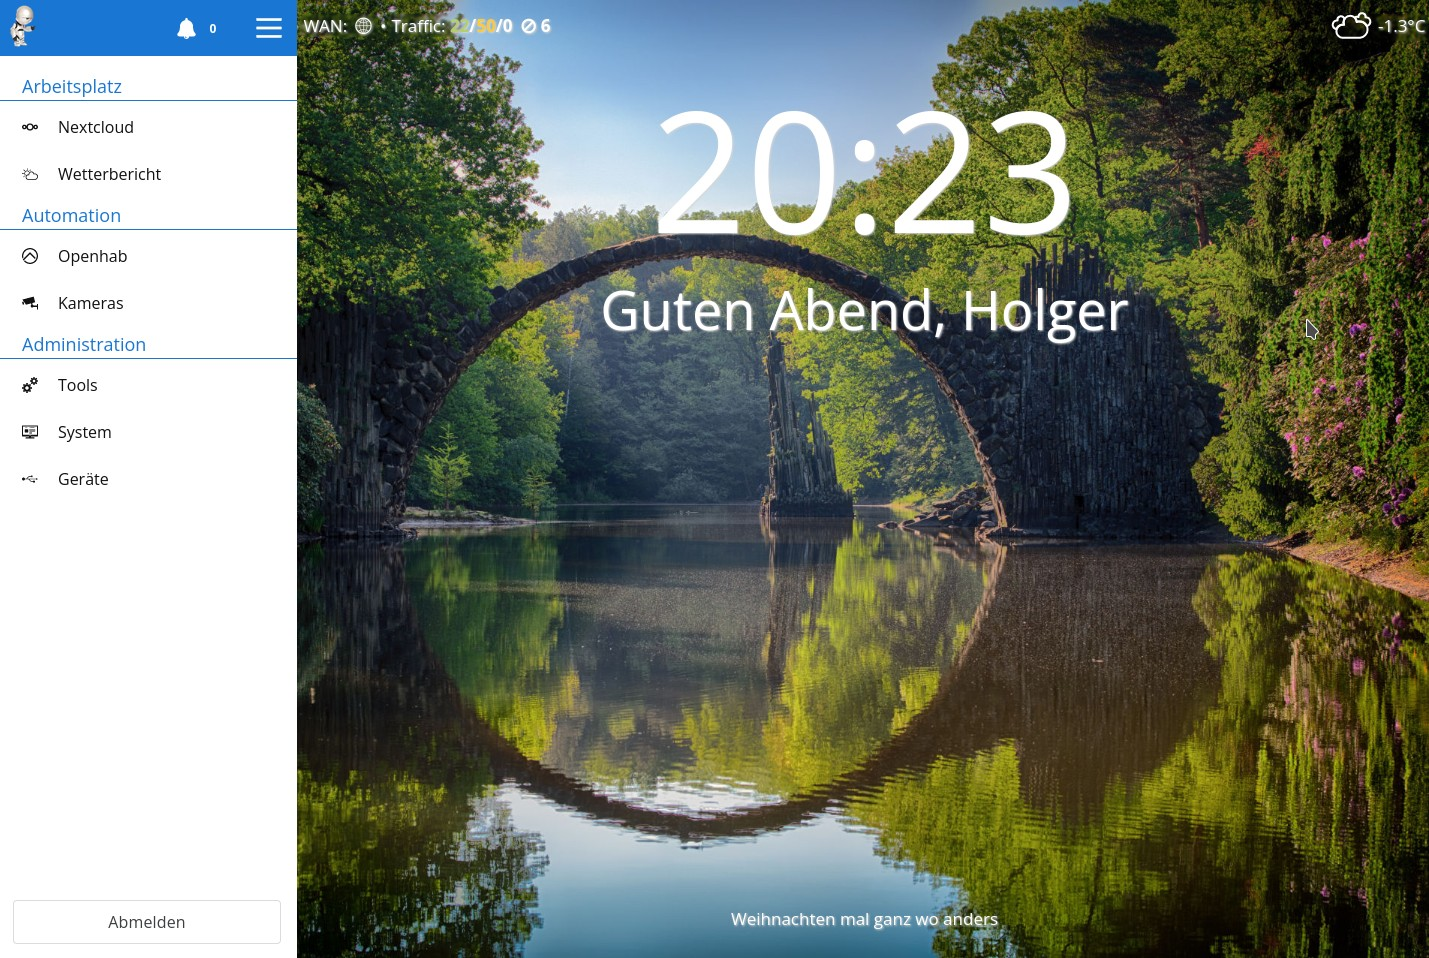
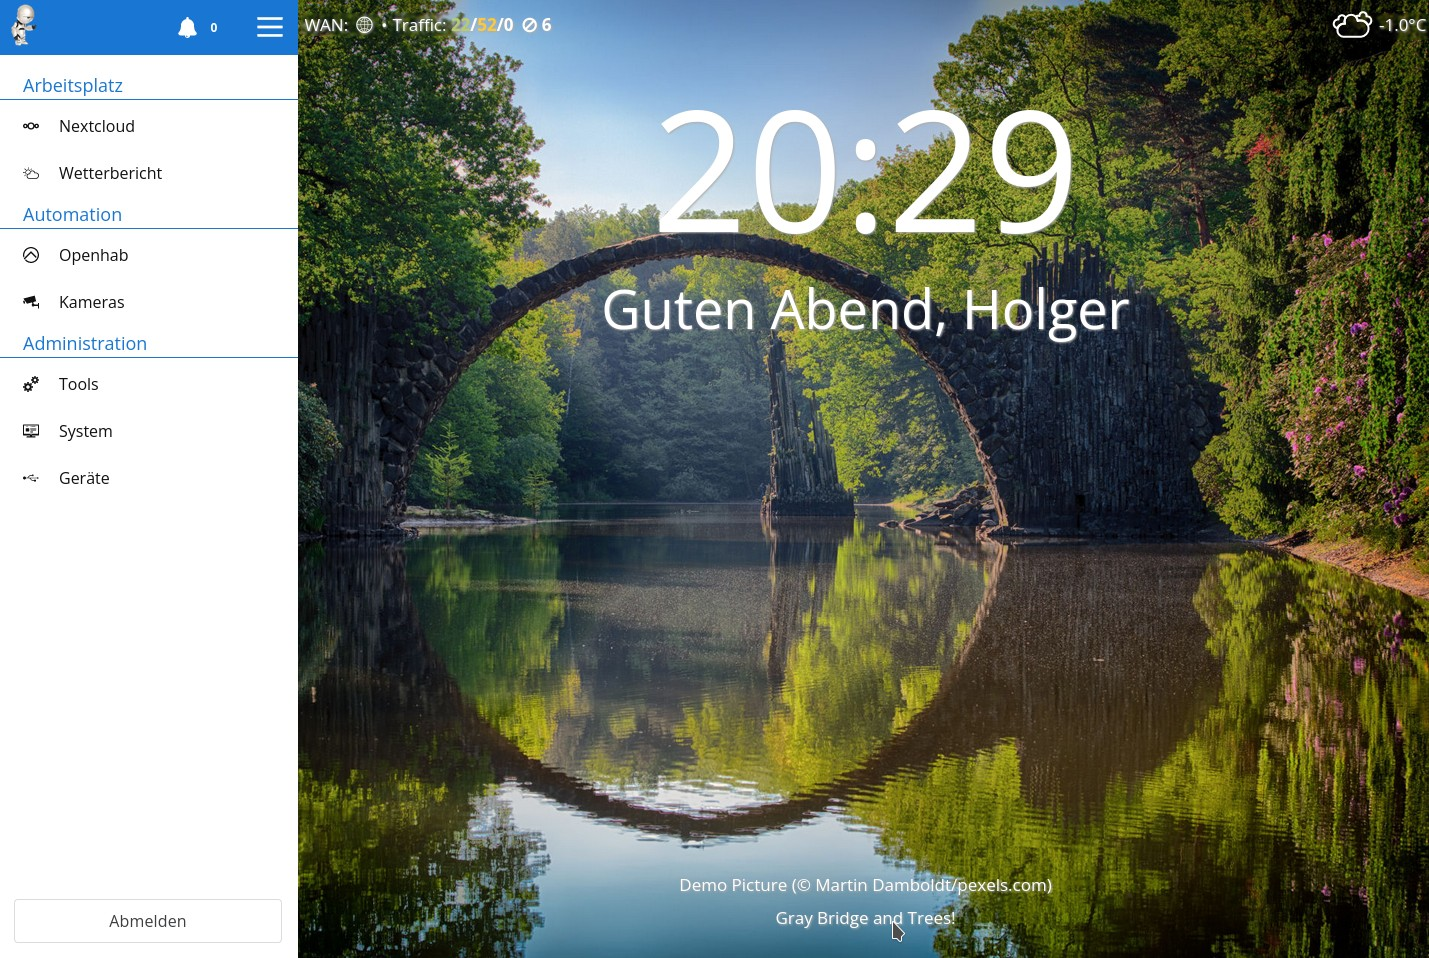
update used picture in readme

diff --git a/roles/apache_webui/templates/htdocs/index.php b/roles/apache_webui/templates/htdocs/index.php
@@ -216,9 +216,8 @@ require "./shared/libs/ressources.php";
         }
         
         mx.OnScriptReady.push( function(){
-            var imageUrl = "/img/potd/today" + ( mx.Core.isSmartphone() ? "Portrait" : "Landscape") + ".jpg";
-            if( mx.Page.isDemoMode() ) imageUrl = "/shared/demo_background.jpeg";
-            var titleUrl = "/img/potd/todayTitle.txt";
+            var imageUrl = mx.Page.isDemoMode() ? "/shared/demo_background.jpeg" : "/img/potd/today" + ( mx.Core.isSmartphone() ? "Portrait" : "Landscape") + ".jpg";
+            var titleUrl = mx.Page.isDemoMode() ? "/shared/demo_title.txt" : "/img/potd/todayTitle.txt";
             mx.MainImage.init(imageUrl,titleUrl,initContent);
         });
 
